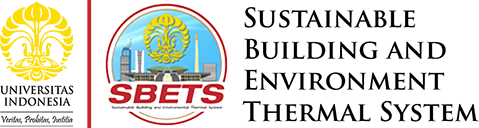
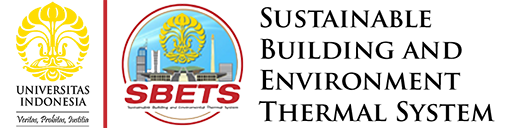
Small image fixes

diff --git a/chamber.html b/chamber.html
@@ -72,7 +72,7 @@
 											<h2>UI Psychrometric Chamber</h2>
 
 											<p>Objective: Design and construction of a psychrometric chamber for heat exchanger and air conditioning and refrigeration equipment tests</p>
-											<img class="image featured col-6 col-12-medium" src="images/Chamber/indoor-chamber.jpg"></img>
+											<img class="image featured col-6 col-12-medium" src="images/Chamber/Indoor-Chamber.jpg"></img>
 											<h3>How we work</h3>
 											<p>Lorem ipsum dolor sit amet, consectetur adipiscing elit. Maecenas ac quam risus, at tempus
 											justo. Sed dictum rutrum massa eu volutpat. Quisque vitae hendrerit sem. Pellentesque lorem felis,

diff --git a/assets/css/main.css b/assets/css/main.css
@@ -1959,6 +1959,11 @@ input, select, textarea {
 			margin: 0 0 0 1.25em;
 		}
 
+		#logo img {
+			max-width: 100%;
+			height: auto;
+		}
+
 /* Nav */
 
 	#nav {
